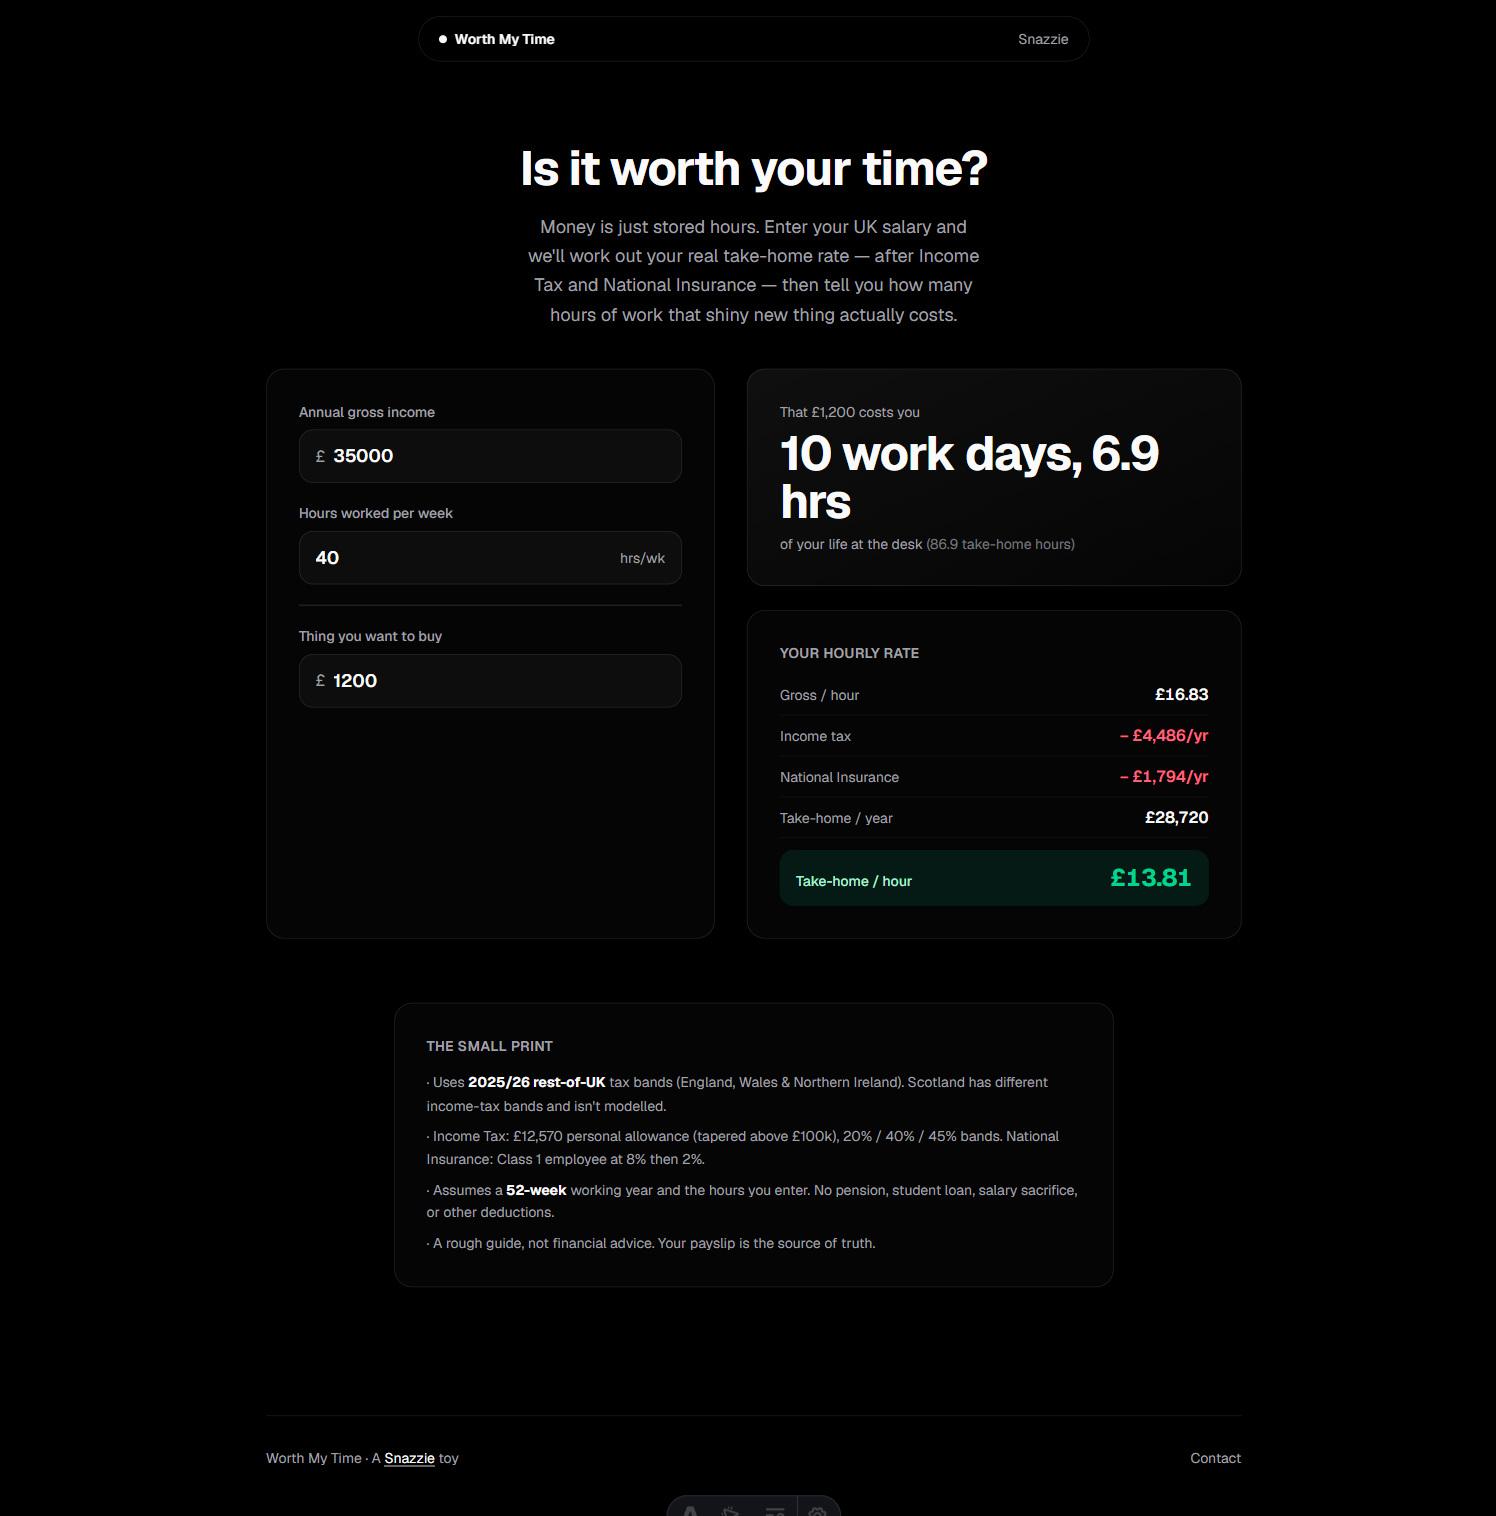
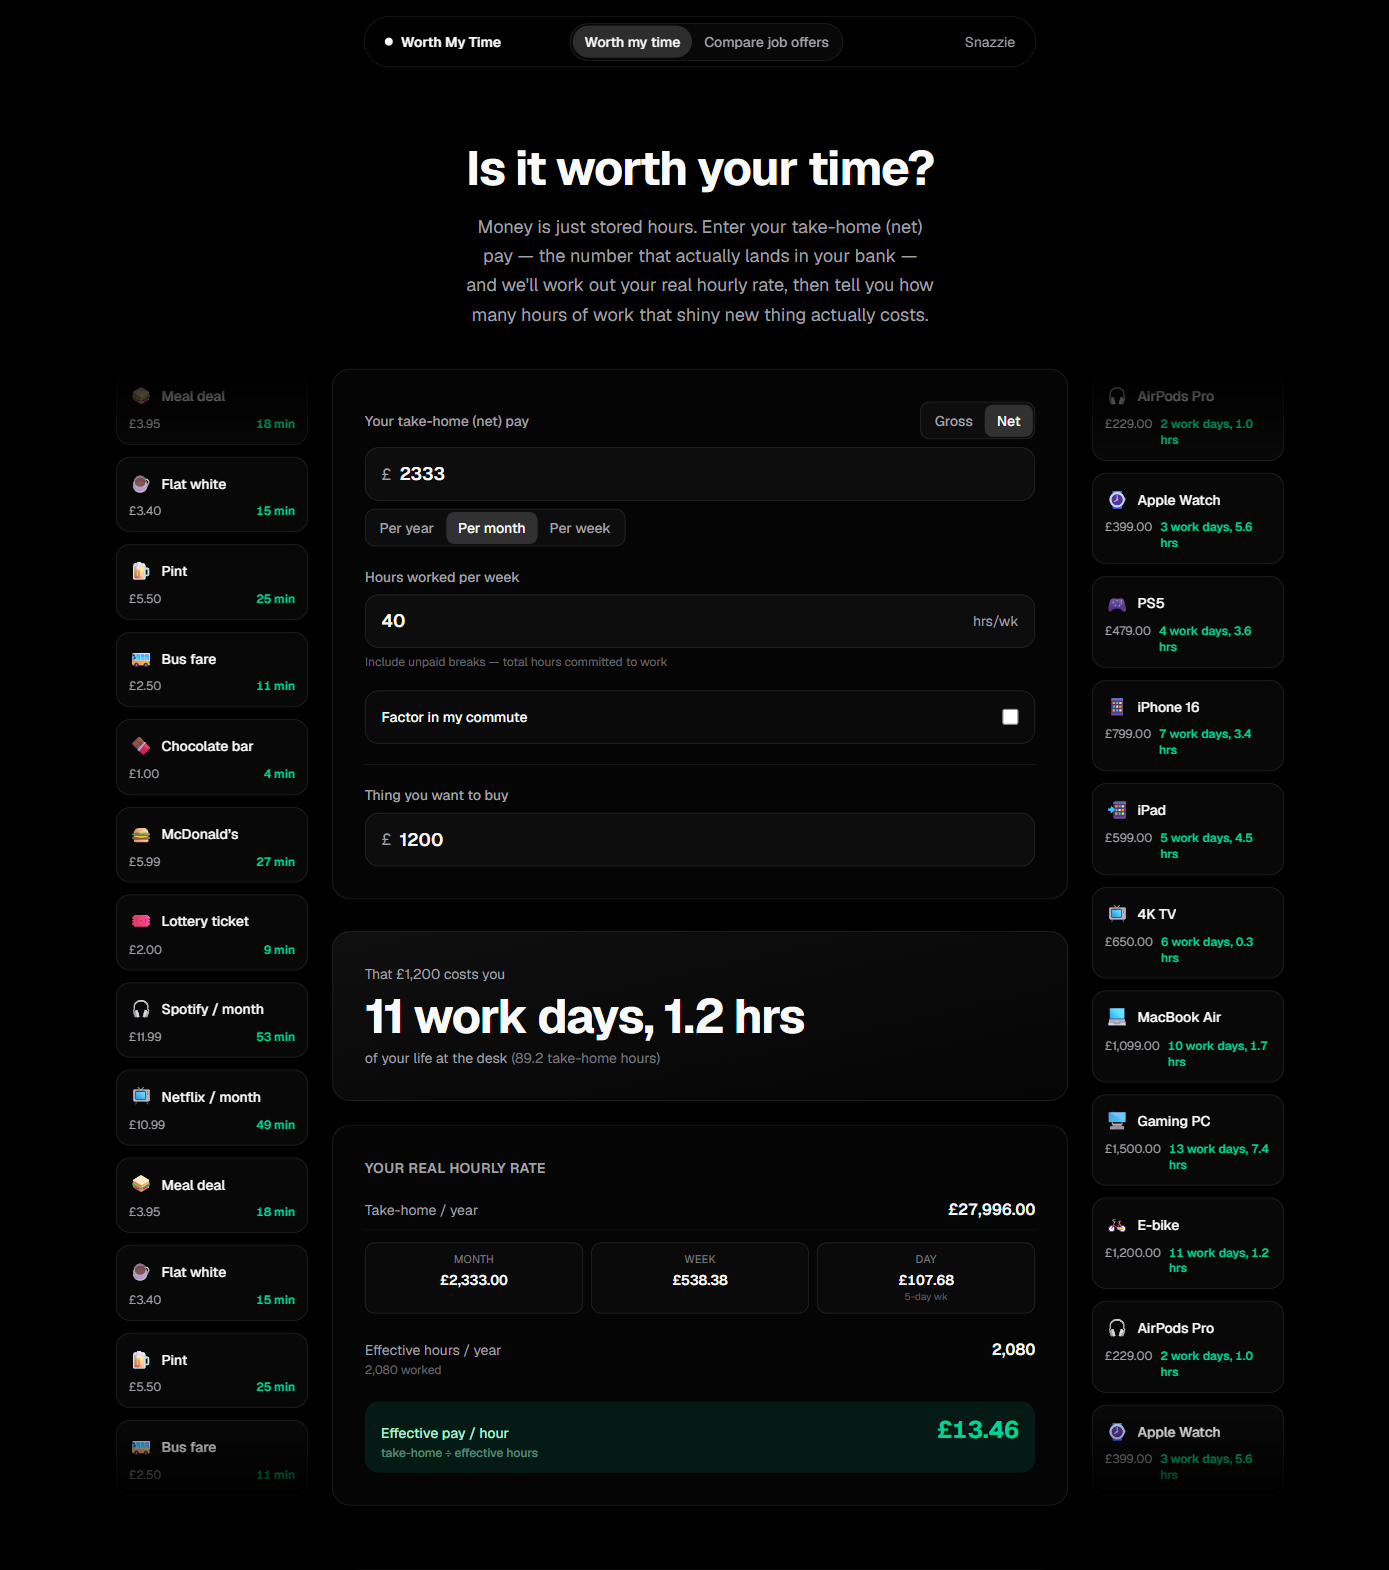
.

diff --git a/Website/.wrangler/tmp/dev-RQtWlh/pages-shim.js b/Website/.wrangler/tmp/dev-RQtWlh/pages-shim.js
@@ -1,0 +1,187 @@
+var __defProp = Object.defineProperty;
+var __name = (target, value) => __defProp(target, "name", { value, configurable: true });
+
+// ../../../../AppData/Local/Temp/bunx-2503180891-wrangler@latest/node_modules/wrangler/templates/pages-shim.ts
+var pages_shim_default = {
+  async fetch(request, env, context) {
+    const response = await env.ASSETS.fetch(request.url, request);
+    return new Response(response.body, response);
+  }
+};
+
+// ../../../../AppData/Local/Temp/bunx-2503180891-wrangler@latest/node_modules/wrangler/templates/middleware/middleware-ensure-req-body-drained.ts
+var drainBody = /* @__PURE__ */ __name(async (request, env, _ctx, middlewareCtx) => {
+  try {
+    return await middlewareCtx.next(request, env);
+  } finally {
+    try {
+      if (request.body !== null && !request.bodyUsed) {
+        const reader = request.body.getReader();
+        while (!(await reader.read()).done) {
+        }
+      }
+    } catch (e) {
+      console.error("Failed to drain the unused request body.", e);
+    }
+  }
+}, "drainBody");
+var middleware_ensure_req_body_drained_default = drainBody;
+
+// ../../../../AppData/Local/Temp/bunx-2503180891-wrangler@latest/node_modules/wrangler/templates/middleware/middleware-miniflare3-json-error.ts
+function reduceError(e) {
+  return {
+    name: e?.name,
+    message: e?.message ?? String(e),
+    stack: e?.stack,
+    cause: e?.cause === void 0 ? void 0 : reduceError(e.cause)
+  };
+}
+__name(reduceError, "reduceError");
+var jsonError = /* @__PURE__ */ __name(async (request, env, _ctx, middlewareCtx) => {
+  try {
+    return await middlewareCtx.next(request, env);
+  } catch (e) {
+    const error = reduceError(e);
+    return Response.json(error, {
+      status: 500,
+      headers: { "MF-Experimental-Error-Stack": "true" }
+    });
+  }
+}, "jsonError");
+var middleware_miniflare3_json_error_default = jsonError;
+
+// .wrangler/tmp/bundle-ZUN8bv/middleware-insertion-facade.js
+var __INTERNAL_WRANGLER_MIDDLEWARE__ = [
+  middleware_ensure_req_body_drained_default,
+  middleware_miniflare3_json_error_default
+];
+var middleware_insertion_facade_default = pages_shim_default;
+
+// ../../../../AppData/Local/Temp/bunx-2503180891-wrangler@latest/node_modules/wrangler/templates/middleware/common.ts
+var __facade_middleware__ = [];
+function __facade_register__(...args) {
+  __facade_middleware__.push(...args.flat());
+}
+__name(__facade_register__, "__facade_register__");
+function __facade_invokeChain__(request, env, ctx, dispatch, middlewareChain) {
+  const [head, ...tail] = middlewareChain;
+  const middlewareCtx = {
+    dispatch,
+    next(newRequest, newEnv) {
+      return __facade_invokeChain__(newRequest, newEnv, ctx, dispatch, tail);
+    }
+  };
+  return head(request, env, ctx, middlewareCtx);
+}
+__name(__facade_invokeChain__, "__facade_invokeChain__");
+function __facade_invoke__(request, env, ctx, dispatch, finalMiddleware) {
+  return __facade_invokeChain__(request, env, ctx, dispatch, [
+    ...__facade_middleware__,
+    finalMiddleware
+  ]);
+}
+__name(__facade_invoke__, "__facade_invoke__");
+
+// .wrangler/tmp/bundle-ZUN8bv/middleware-loader.entry.ts
+var __Facade_ScheduledController__ = class ___Facade_ScheduledController__ {
+  constructor(scheduledTime, cron, noRetry) {
+    this.scheduledTime = scheduledTime;
+    this.cron = cron;
+    this.#noRetry = noRetry;
+  }
+  scheduledTime;
+  cron;
+  static {
+    __name(this, "__Facade_ScheduledController__");
+  }
+  #noRetry;
+  noRetry() {
+    if (!(this instanceof ___Facade_ScheduledController__)) {
+      throw new TypeError("Illegal invocation");
+    }
+    this.#noRetry();
+  }
+};
+function wrapExportedHandler(worker) {
+  if (__INTERNAL_WRANGLER_MIDDLEWARE__ === void 0 || __INTERNAL_WRANGLER_MIDDLEWARE__.length === 0) {
+    return worker;
+  }
+  for (const middleware of __INTERNAL_WRANGLER_MIDDLEWARE__) {
+    __facade_register__(middleware);
+  }
+  const fetchDispatcher = /* @__PURE__ */ __name(function(request, env, ctx) {
+    if (worker.fetch === void 0) {
+      throw new Error("Handler does not export a fetch() function.");
+    }
+    return worker.fetch(request, env, ctx);
+  }, "fetchDispatcher");
+  return {
+    ...worker,
+    fetch(request, env, ctx) {
+      const dispatcher = /* @__PURE__ */ __name(function(type, init) {
+        if (type === "scheduled" && worker.scheduled !== void 0) {
+          const controller = new __Facade_ScheduledController__(
+            Date.now(),
+            init.cron ?? "",
+            () => {
+            }
+          );
+          return worker.scheduled(controller, env, ctx);
+        }
+      }, "dispatcher");
+      return __facade_invoke__(request, env, ctx, dispatcher, fetchDispatcher);
+    }
+  };
+}
+__name(wrapExportedHandler, "wrapExportedHandler");
+function wrapWorkerEntrypoint(klass) {
+  if (__INTERNAL_WRANGLER_MIDDLEWARE__ === void 0 || __INTERNAL_WRANGLER_MIDDLEWARE__.length === 0) {
+    return klass;
+  }
+  for (const middleware of __INTERNAL_WRANGLER_MIDDLEWARE__) {
+    __facade_register__(middleware);
+  }
+  return class extends klass {
+    #fetchDispatcher = /* @__PURE__ */ __name((request, env, ctx) => {
+      this.env = env;
+      this.ctx = ctx;
+      if (super.fetch === void 0) {
+        throw new Error("Entrypoint class does not define a fetch() function.");
+      }
+      return super.fetch(request);
+    }, "#fetchDispatcher");
+    #dispatcher = /* @__PURE__ */ __name((type, init) => {
+      if (type === "scheduled" && super.scheduled !== void 0) {
+        const controller = new __Facade_ScheduledController__(
+          Date.now(),
+          init.cron ?? "",
+          () => {
+          }
+        );
+        return super.scheduled(controller);
+      }
+    }, "#dispatcher");
+    fetch(request) {
+      return __facade_invoke__(
+        request,
+        this.env,
+        this.ctx,
+        this.#dispatcher,
+        this.#fetchDispatcher
+      );
+    }
+  };
+}
+__name(wrapWorkerEntrypoint, "wrapWorkerEntrypoint");
+var WRAPPED_ENTRY;
+if (typeof middleware_insertion_facade_default === "object") {
+  WRAPPED_ENTRY = wrapExportedHandler(middleware_insertion_facade_default);
+} else if (typeof middleware_insertion_facade_default === "function") {
+  WRAPPED_ENTRY = wrapWorkerEntrypoint(middleware_insertion_facade_default);
+}
+var middleware_loader_entry_default = WRAPPED_ENTRY;
+export {
+  __INTERNAL_WRANGLER_MIDDLEWARE__,
+  middleware_loader_entry_default as default
+};
+//# sourceMappingURL=pages-shim.js.map

diff --git a/Website/.wrangler/tmp/bundle-ZUN8bv/middleware-loader.entry.ts b/Website/.wrangler/tmp/bundle-ZUN8bv/middleware-loader.entry.ts
@@ -1,0 +1,134 @@
+// This loads all middlewares exposed on the middleware object and then starts
+// the invocation chain. The big idea is that we can add these to the middleware
+// export dynamically through wrangler, or we can potentially let users directly
+// add them as a sort of "plugin" system.
+
+import ENTRY, { __INTERNAL_WRANGLER_MIDDLEWARE__ } from "C:\\Users\\acoop\\Documents\\GitHub\\SnazzieSpaceReact\\Website\\.wrangler\\tmp\\bundle-ZUN8bv\\middleware-insertion-facade.js";
+import { __facade_invoke__, __facade_register__, Dispatcher } from "C:\\Users\\acoop\\AppData\\Local\\Temp\\bunx-2503180891-wrangler@latest\\node_modules\\wrangler\\templates\\middleware\\common.ts";
+import type { WorkerEntrypointConstructor } from "C:\\Users\\acoop\\Documents\\GitHub\\SnazzieSpaceReact\\Website\\.wrangler\\tmp\\bundle-ZUN8bv\\middleware-insertion-facade.js";
+
+// Preserve all the exports from the worker
+export * from "C:\\Users\\acoop\\Documents\\GitHub\\SnazzieSpaceReact\\Website\\.wrangler\\tmp\\bundle-ZUN8bv\\middleware-insertion-facade.js";
+
+class __Facade_ScheduledController__ implements ScheduledController {
+	readonly #noRetry: ScheduledController["noRetry"];
+
+	constructor(
+		readonly scheduledTime: number,
+		readonly cron: string,
+		noRetry: ScheduledController["noRetry"]
+	) {
+		this.#noRetry = noRetry;
+	}
+
+	noRetry() {
+		if (!(this instanceof __Facade_ScheduledController__)) {
+			throw new TypeError("Illegal invocation");
+		}
+		// Need to call native method immediately in case uncaught error thrown
+		this.#noRetry();
+	}
+}
+
+function wrapExportedHandler(worker: ExportedHandler): ExportedHandler {
+	// If we don't have any middleware defined, just return the handler as is
+	if (
+		__INTERNAL_WRANGLER_MIDDLEWARE__ === undefined ||
+		__INTERNAL_WRANGLER_MIDDLEWARE__.length === 0
+	) {
+		return worker;
+	}
+	// Otherwise, register all middleware once
+	for (const middleware of __INTERNAL_WRANGLER_MIDDLEWARE__) {
+		__facade_register__(middleware);
+	}
+
+	const fetchDispatcher: ExportedHandlerFetchHandler = function (
+		request,
+		env,
+		ctx
+	) {
+		if (worker.fetch === undefined) {
+			throw new Error("Handler does not export a fetch() function.");
+		}
+		return worker.fetch(request, env, ctx);
+	};
+
+	return {
+		...worker,
+		fetch(request, env, ctx) {
+			const dispatcher: Dispatcher = function (type, init) {
+				if (type === "scheduled" && worker.scheduled !== undefined) {
+					const controller = new __Facade_ScheduledController__(
+						Date.now(),
+						init.cron ?? "",
+						() => {}
+					);
+					return worker.scheduled(controller, env, ctx);
+				}
+			};
+			return __facade_invoke__(request, env, ctx, dispatcher, fetchDispatcher);
+		},
+	};
+}
+
+function wrapWorkerEntrypoint(
+	klass: WorkerEntrypointConstructor
+): WorkerEntrypointConstructor {
+	// If we don't have any middleware defined, just return the handler as is
+	if (
+		__INTERNAL_WRANGLER_MIDDLEWARE__ === undefined ||
+		__INTERNAL_WRANGLER_MIDDLEWARE__.length === 0
+	) {
+		return klass;
+	}
+	// Otherwise, register all middleware once
+	for (const middleware of __INTERNAL_WRANGLER_MIDDLEWARE__) {
+		__facade_register__(middleware);
+	}
+
+	// `extend`ing `klass` here so other RPC methods remain callable
+	return class extends klass {
+		#fetchDispatcher: ExportedHandlerFetchHandler<Record<string, unknown>> = (
+			request,
+			env,
+			ctx
+		) => {
+			this.env = env;
+			this.ctx = ctx;
+			if (super.fetch === undefined) {
+				throw new Error("Entrypoint class does not define a fetch() function.");
+			}
+			return super.fetch(request);
+		};
+
+		#dispatcher: Dispatcher = (type, init) => {
+			if (type === "scheduled" && super.scheduled !== undefined) {
+				const controller = new __Facade_ScheduledController__(
+					Date.now(),
+					init.cron ?? "",
+					() => {}
+				);
+				return super.scheduled(controller);
+			}
+		};
+
+		fetch(request: Request<unknown, IncomingRequestCfProperties>) {
+			return __facade_invoke__(
+				request,
+				this.env,
+				this.ctx,
+				this.#dispatcher,
+				this.#fetchDispatcher
+			);
+		}
+	};
+}
+
+let WRAPPED_ENTRY: ExportedHandler | WorkerEntrypointConstructor | undefined;
+if (typeof ENTRY === "object") {
+	WRAPPED_ENTRY = wrapExportedHandler(ENTRY);
+} else if (typeof ENTRY === "function") {
+	WRAPPED_ENTRY = wrapWorkerEntrypoint(ENTRY);
+}
+export default WRAPPED_ENTRY;

diff --git a/Website/.wrangler/tmp/bundle-ZUN8bv/middleware-insertion-facade.js b/Website/.wrangler/tmp/bundle-ZUN8bv/middleware-insertion-facade.js
@@ -1,0 +1,11 @@
+				import worker, * as OTHER_EXPORTS from "C:\\Users\\acoop\\AppData\\Local\\Temp\\bunx-2503180891-wrangler@latest\\node_modules\\wrangler\\templates\\pages-shim.ts";
+				import * as __MIDDLEWARE_0__ from "C:\\Users\\acoop\\AppData\\Local\\Temp\\bunx-2503180891-wrangler@latest\\node_modules\\wrangler\\templates\\middleware\\middleware-ensure-req-body-drained.ts";
+import * as __MIDDLEWARE_1__ from "C:\\Users\\acoop\\AppData\\Local\\Temp\\bunx-2503180891-wrangler@latest\\node_modules\\wrangler\\templates\\middleware\\middleware-miniflare3-json-error.ts";
+
+				export * from "C:\\Users\\acoop\\AppData\\Local\\Temp\\bunx-2503180891-wrangler@latest\\node_modules\\wrangler\\templates\\pages-shim.ts";
+				const MIDDLEWARE_TEST_INJECT = "__INJECT_FOR_TESTING_WRANGLER_MIDDLEWARE__";
+				export const __INTERNAL_WRANGLER_MIDDLEWARE__ = [
+					
+					__MIDDLEWARE_0__.default,__MIDDLEWARE_1__.default
+				]
+				export default worker;

diff --git a/Website/src/data/projects.ts b/Website/src/data/projects.ts
@@ -241,8 +241,8 @@ export const projects: Project[] = [
     image: "/wmt.png",
     featured: true,
     imageFit: "contain",
-    imgWidth: 1496,
-    imgHeight: 1516,
+    imgWidth: 1389,
+    imgHeight: 1570,
     tech: ["Astro", "React", "TypeScript", "Tailwind", "Vite", "Bun", "big.js", "Vitest"],
     details: [
       "Real hourly rate from gross or take-home pay, using 2025/26 rest-of-UK Income Tax + National Insurance",
